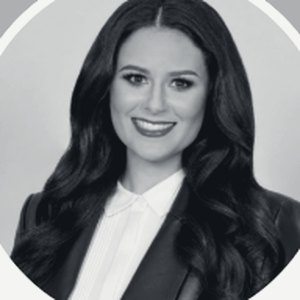
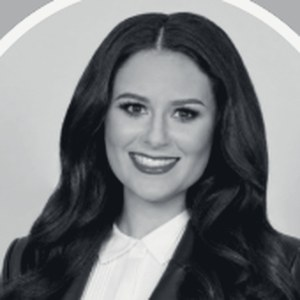
Fix phone layout of the opening screen; recrop Stephanie's photo and add her education
Claude-Session: https://claude.ai/code/session_0149Ty1SGPohCJhyM3Hxbmeg

diff --git a/index.html b/index.html
@@ -19,7 +19,7 @@
 <link rel="preconnect" href="https://fonts.googleapis.com">
 <link rel="preconnect" href="https://fonts.gstatic.com" crossorigin>
 <link rel="stylesheet" href="https://fonts.googleapis.com/css2?family=Michroma&family=IBM+Plex+Mono:wght@400;500;700&display=swap">
-<link rel="stylesheet" href="/assets/site.css?v=4fd891f-e">
+<link rel="stylesheet" href="/assets/site.css?v=dc37c0f-m">
 </head>
 <body>
 <header class="top">
@@ -192,11 +192,12 @@
         <p>Ilya leads technology and implementations at AceForce. He built the WMS, ERP tooling and app store that AceForce clients run on today, and he runs the integrations across NetSuite, Cin7, Shopify, 3PL systems and EDI. He came to engineering from accounting, so the systems he builds are designed around the books as well as the warehouse.</p>
       </article>
       <article class="leader">
-        <img class="avatar" src="/assets/team-stephanie.jpg" alt="Stephanie Taxel">
+        <img class="avatar" src="/assets/team-stephanie.jpg?v=2" alt="Stephanie Taxel">
         <h4>Stephanie Taxel</h4>
         <p class="role">Senior Director of Marketing &amp; Business Development</p>
         <p>Stephanie builds brand campaigns for AceForce's CPG clients through social storytelling and digital marketing. At Gucci she ran retail, partner and event marketing, including a $10M wholesale marketing and events budget, after six years in client engagement and events at Chanel.</p>
         <p class="formerly"><span>Formerly</span> Gucci · Chanel · Jetblack (Walmart)</p>
+        <p class="formerly"><span>Education</span> University of Michigan</p>
       </article>
     </div>
   </div>
@@ -250,6 +251,6 @@
     <p>© 2026 AceForce Group · Otacon Group LLC DBA AceForce</p>
   </div>
 </footer>
-<script src="/assets/site.js?v=4fd891f-e"></script>
+<script src="/assets/site.js?v=dc37c0f-m"></script>
 </body>
 </html>

diff --git a/assets/site.css b/assets/site.css
@@ -209,7 +209,19 @@ footer .motto{letter-spacing:.22em;text-transform:uppercase}
   .panel{align-items:end;padding-bottom:84px}
   .trusted{display:none}
   .readout{left:max(24px,env(safe-area-inset-left,0px));right:auto}
-  .launch .lede{font-size:14px}
+  .launch .lede{font-size:13px;line-height:1.6;max-width:34ch}
+  .launch h1{font-size:clamp(18px,5.6vw,24px);line-height:1.25}
+  .launch .wrap{gap:14px}
+  .launch .ctas{flex-direction:column;align-items:stretch;width:100%;max-width:320px;gap:10px}
+  .launch .ctas .btn{justify-content:center;min-height:48px}
+  .cue{display:none}
+  .launch{bottom:max(28px,env(safe-area-inset-bottom,0px))}
+  .top .wrap{flex-wrap:nowrap;padding-block:16px}
+  .top img{width:124px}
+  .top nav{flex-wrap:nowrap;margin-left:auto}
+  .svc h2{font-size:20px}
+  .svc li{padding:11px 0}
+  .svc-detail p{font-size:13px}
   form{grid-template-columns:1fr}
   .top nav a:not(.btn){display:none}
   .bgvid,.vidshade{display:none}

diff --git a/founder/index.html b/founder/index.html
@@ -19,7 +19,7 @@
 <link rel="preconnect" href="https://fonts.googleapis.com">
 <link rel="preconnect" href="https://fonts.gstatic.com" crossorigin>
 <link rel="stylesheet" href="https://fonts.googleapis.com/css2?family=Michroma&family=IBM+Plex+Mono:wght@400;500;700&display=swap">
-<link rel="stylesheet" href="/assets/site.css?v=4fd891f-e">
+<link rel="stylesheet" href="/assets/site.css?v=dc37c0f-m">
 </head>
 <body>
 <header class="top">
@@ -82,6 +82,6 @@
     <p>© 2026 AceForce Group · Otacon Group LLC DBA AceForce</p>
   </div>
 </footer>
-<script src="/assets/site.js?v=4fd891f-e"></script>
+<script src="/assets/site.js?v=dc37c0f-m"></script>
 </body>
 </html>

diff --git a/assets/site.js b/assets/site.js
@@ -85,7 +85,8 @@
   function logoBox(){
     var heroTop=intro.getBoundingClientRect().top-stage.getBoundingClientRect().top;
     var Lw=Math.min(W*.86,1180), Lh=Lw*104/1160;
-    var cy=Math.min(H*.34, heroTop-48-Lh/2); cy=Math.max(cy, 110+Lh/2);
+    var gap=W<760?28:48, top=W<760?92:110;
+    var cy=Math.min(H*.34, heroTop-gap-Lh/2); cy=Math.max(cy, top+Lh/2);
     return {w:Lw,h:Lh,x:(W-Lw)/2,y:cy-Lh/2};
   }
 
